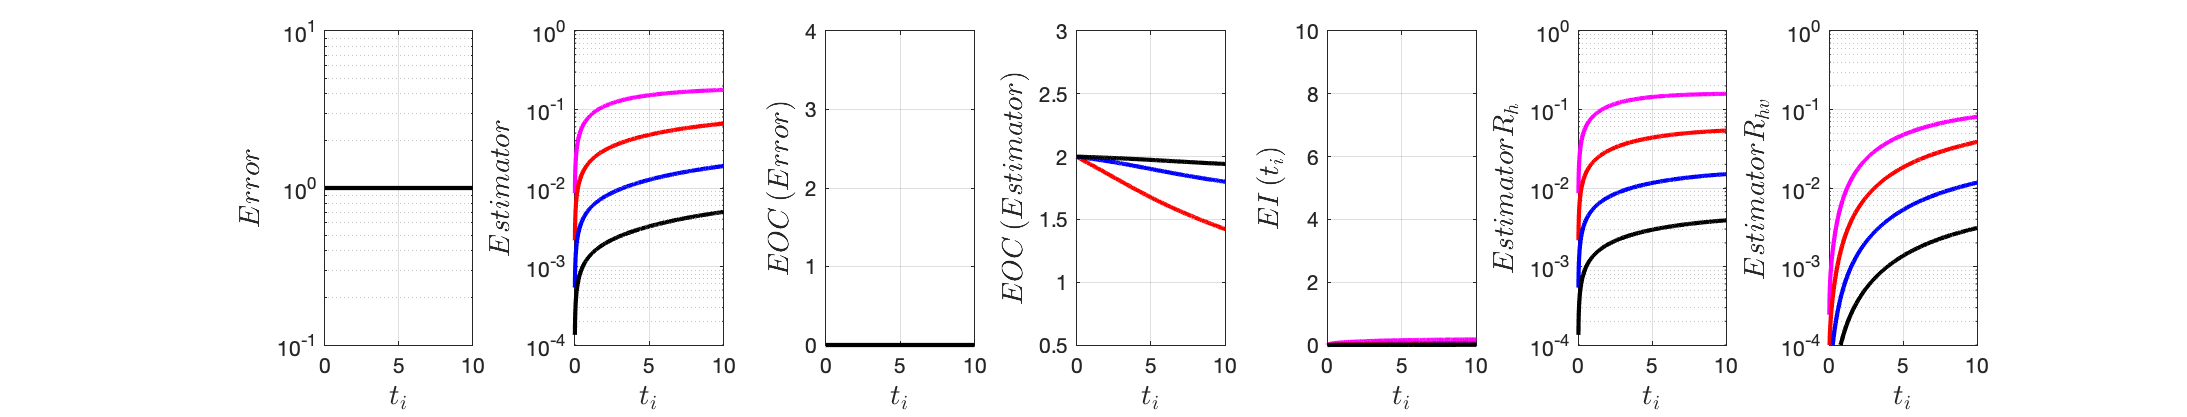
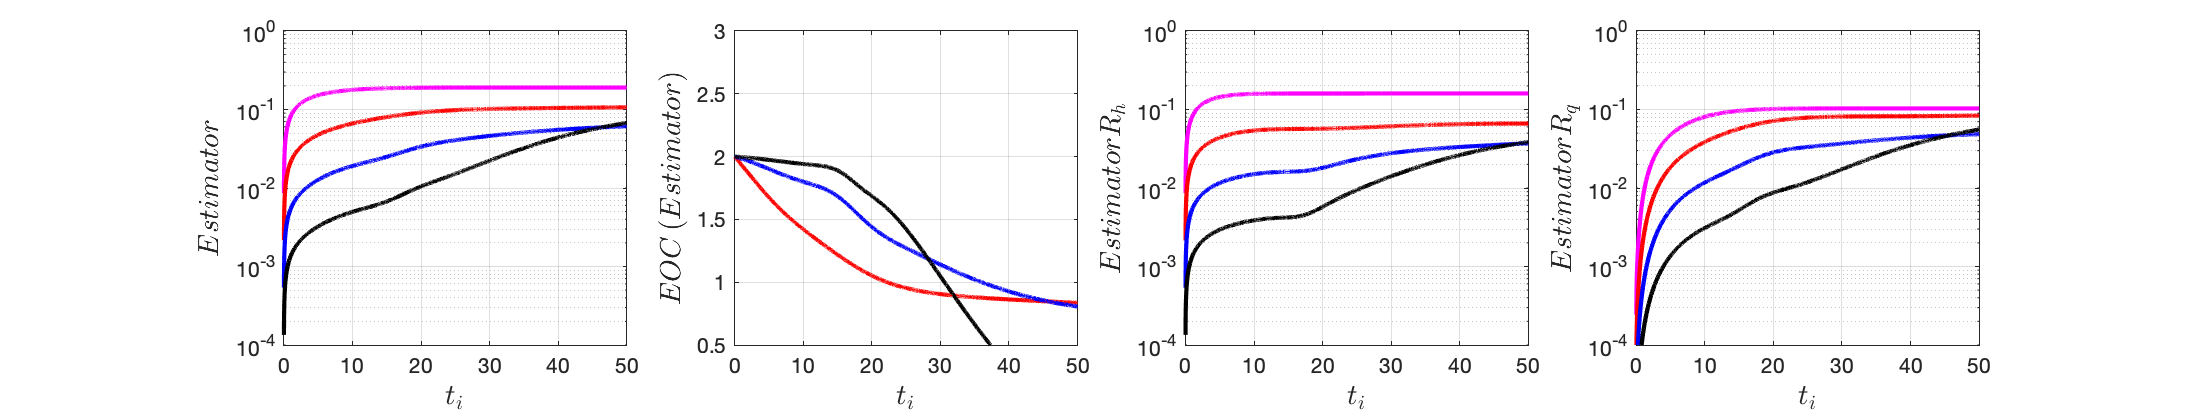
some further corrections

diff --git a/paper/shallow_water_thesis_chapter.tex b/paper/shallow_water_thesis_chapter.tex
@@ -212,7 +212,9 @@
 \thispagestyle{empty}
 \tableofcontents
 \section{Introduction}\label{sec_intro}
-In this chapter we apply model and mesh adaptivity to the shallow water equations. The aim will be to enable the adaptive introduction and removal of layers of fluid based on an a posteriori error indicator.  The rest of the chapter is as follows.
+In this chapter we apply model and mesh adaptivity to the shallow water equations. The aim will be to enable the adaptive introduction and removal of layers of fluid based on an a posteriori error indicator.  The rest of the chapter is structured as follows.
+
+We present the model problem and notation in \S \ref{sec:setup}.  In \S\ref{sec:num_disc} we present the numerical discreization of the domain and the numerical schemes we use for the spatial and temporal approximation of the problem. In \S \ref{sec_bounds} we develop the the reconstructions we use to obtain the a-posteriori error bound. In \S\ref{sec_num_exp} we present the numerical experiments we have conducted to test the reconstructions and the bound's behaviour.  In \S\ref{sec:discussion} we discuss the findings from the experiments. Finally, we present our concluding remarks in \S \ref{sec:conclusion}.
 \section{Preliminaries and Model Setup}\label{sec:setup}
 \subsection{Notation}\label{subsec_modelprob}
 In this section we present the notation we will be using as well as the model problem.  Let $\qb{0,L}$, $L\in \mathbb{R}^+$ and $t\in \qb{0,T}$ with $T\in \mathbb{R}^+$.  We define the vector of conserved quantities $\vect{u}$  where
@@ -298,12 +300,13 @@ v\qp{x,t}&=v_0\qp{x},
 where $h_0, v_0\in \leb_\infty\qp{\qb{0,L}}$ and with periodic boundary conditions.
 \end{Rem}
 
-\subsection{Numerical Discretization}
+\section{Numerical Discretization}\label{sec:num_disc}
+\subsection{Discretization of the space-time domain}
 \begin{Rem}[Discretization of temporal interval]
 	We  partition the temporal interval $\qb{0,T}$ into sub-intervals with endpoints given by $0=t^0<t^1<\cdots<t^N=T,\, N\in \mathbb{N}$.    The time-step size is defined by $\Delta t^n:=t^{n+1}-t^n,\, n=0,\cdots,N-1$.    We will use a constant time-step $\Delta t^n=\Delta t \quad \forall n\in \bracegs{0,\cdots, N-1}$.
 \end{Rem}
 \begin{Rem}[Discretization of spatial domain]
-We partition the spatial interval $\W=\qb{0,L}$ into sub-intervals with endpoints given by $0=x_0<x_1<\cdots<x_M=L,\, M\in \mathbb{N}$.  The spatial-step size  defined by $\Delta x_m:=x_{m+1}-x_m,\, m=0,\cdots,-1$.   We will use a constant spatial-step  $\Delta x_j =\Delta x \quad \forall j\in \bracegs{0,\cdots,M-1}$.
+We partition the spatial interval $\W=\qb{0,L}$ into sub-intervals with endpoints given by $0=x_0<x_1<\cdots<x_M=L,\, M\in \mathbb{N}$.  The spatial-step size  defined by $\Delta x_m:=x_{m+1}-x_m,\, m=0,\cdots,M-1$.   We will use a constant spatial-step  $\Delta x_j =\Delta x \quad \forall j\in \bracegs{0,\cdots,M-1}$.
 \end{Rem}
 \subsection{Numerical schemes}
 In this section we describe the approximations to the temporal and spatial derivatives from (\ref{eq_gen_hyp_conservation_law}).  
@@ -329,7 +332,7 @@ We approximate the temporal derivative $\partial_t\vect{u}$ using Strong-Stabili
 
 \begin{Rem}[SSP-RK methods]
 We will use the SSP methods  from \cite{shu1988total} for the temporal of component  of the discretization. As an illustrative example consider the $3-$stage SSP RK method ($\vect{U}^{\qp{i}}$ refers to the $i^{th}-$stage):
-\begin{equation}
+\begin{equation}\label{eq_SSP3_RK}
 \begin{aligned}
 \textbf{U}^{\qp{0}}&=\textbf{U}^n,\\
 \textbf{U}^{\qp{1}}&=\textbf{U}^n-\Delta t \vect{f}_h\qp{\textbf{U}^{\qp{0}}},\\
@@ -405,7 +408,10 @@ We now use the temporal reconstruction to obtain the spatio-temporal one.  In or
 \begin{Defn}[Finite difference approximation of deratives of \vect{u}]
 We will use the notation 
 $\FD\qp{\vect{U}^n_j}$
-to denote the chosen finite difference approximation to $\partial_x\vect{u}\qp{x_j,t^n}$.
+to denote the chosen finite difference approximation to $\partial_x\vect{u}\qp{x_j,t^n}$. Unless otherwise stated, we use a central difference quotient for defining our spatio-temporal reconstruction, i.e.
+\begin{equation}
+\FD\qp{\vect{U}^n_j}:=\frac{\vect{U}^{n}_{j+1}-\vect{U}^{n}_{j-1}}{2\Delta x}.
+\end{equation}
 \end{Defn}
 \begin{Defn}[Spatio-temporal reconstruction]\label{defn_spatio-temporal reconstruction}
 	Let $ \widehat{\textbf{U}}^t=\qp{\rec{h}^t,\rec{q}^t}$ be a temporal reconstruction of the numerical solution $\vect{U}$ of (\ref{eq_gen_hyp_conservation_law}).  The spatio-temporal reconstruction $\widehat{\textbf{U}}^{ts}=\qp{\rec{h}^{ts},\rec{q}^{ts}}\in\mathbb{V}^t_r\qp{0,T; \mathbb{V}^s_q}$ is given by
@@ -498,10 +504,19 @@ The objectives in this section are to study the performance of the bound given i
 &\times\exp\qp{\int^t_0\frac{\Cueta\Cof\Norm{\partial_x\rec{\vect{u}}\qp{\cdot,s}}_{\leb_\infty\qp{I}}+\Coeta^2}{\Cueta}\mathrm{d}s}
 \end{aligned}
 \end{equation}
+\begin{Rem}[Performance of the residual $\Norm{\vect{R}}_{\leb_2\qp{I\times\qp{0,t}}}$]
+In the first instance, we will examine the time evolution of the term $\Norm{\vect{R}}_{\leb_2\qp{I\times\qp{0,t}}}$ instead of the entire bound.
+\end{Rem}
+\begin{Rem}[Temporal approximations]
+In this section, we will carry out tests using two different spatial approximation.   The first will be the forward Euler approximation and the second one will be the $SSP-RK3$ approximation specified in (\ref{eq_SSP3_RK}).
+\end{Rem}
+\begin{Rem}[Degree of the reconstruction]\label{rem_degree_of_reconstruction}
+The conditions presented in Defns. \ref{defn_temp_rec_shw} and \ref{defn_spatio-temporal reconstruction} result in a polynomial reconstruction which is of third order in both time and space.  It is possible to obtain a first order reconstruciton (in both time and space) by using only a small subset of the conditions used in the aforementioned definitions: namely, the nodal equivalence conditions. 
+\end{Rem}
 The assessment of the performance of the bound will be on the basis of the Effectivity Index (EI) of the error indicators and of the Estimated Order of Convergence (EOC).
 \begin{Defn}[Effectivity Index (EI)] The effectivity index of an error indicator $\eta$ compared to a given error at time $t$ is defined as
 \begin{equation}\label{eq_EI}
-EI\qp{error\qp{t}, \eta\qp{t}} := \frac{\eta_1\qp{t}}{error\qp{t}}
+EI\qp{error\qp{t}, \eta\qp{t}} := \frac{\eta\qp{t}}{error\qp{t}}
 \end{equation}
 \end{Defn}
 
@@ -520,13 +535,13 @@ EOC\qp{a,h;i} = \frac{log\qp{a\qp{i+1}/a\qp{i}}}{log\qp{h\qp{i+1}/h\qp{i}}}.
 \end{equation}
 with periodic boundary conditions. 
 \subsection{Test results}\label{sec:num_exp}
-In the tests that follows, for the time being, we are just looking at $\Norm{\vect{R}}_{\leb_2}$ \textbf{Put the coupling and the method in the caption and change Rhv to Rq}
+In the tests that follows, for the time being, we are just looking at $\Norm{\vect{R}}_{\leb_2\qp{I\times\qp{0,t}}}$.
 \subsection*{$\Delta t \sim \Delta x^1$}
 \begin{figure}[H]
 	\hspace{-3cm}
 	%\centering
 	\includegraphics[scale=0.55]{../figures/fig_SHW_RK1_LXF_rec1_pow_oneplots_1x5_shw_periodic}	
-	\caption{Reconstruction from Defn. \ref{defn_spatio-temporal reconstruction}. (from left to right) Error $e$ given by (\ref{eq_error_eR}), Estimator $\eta$ given by (\ref{eq_estimator}), EOC error, EOC Estimator, Effectivity Index.}
+	\caption{Forward-Euler with first order reconstruction.  Temporal-spatial step coupling of $\Delta t\sim \Delta x^1$. (from left to right) $\Normgs{R}_{\leb_2\qp{0,t; \qb{0,L}}}$, EOC Estimator, $\Normgs{\mathcal{R}_h}_{\leb_2\qp{0,t; \qb{0,L}}}$, $\Normgs{\mathcal{R}_q}_{\leb_2\qp{0,t; \qb{0,L}}}$.}
 	\label{fig_all_RK1_LXF_rec1_pow_one}
 \end{figure}
 
@@ -534,7 +549,7 @@ In the tests that follows, for the time being, we are just looking at $\Norm{\ve
 	\hspace{-3cm}
 	%\centering
 	\includegraphics[scale=0.55]{../figures/fig_SHW_RK3_LXF_rec3_pow_oneplots_1x5_shw_periodic}	
-	\caption{Reconstruction from Defn. \ref{defn_spatio-temporal reconstruction}. (from left to right) Error $e$ given by (\ref{eq_error_eR}), Estimator $\eta$ given by (\ref{eq_estimator}), EOC error, EOC Estimator, Effectivity Index.}
+	\caption{RK3 with third order reconstruction.  Temporal-spatial step coupling of $\Delta t\sim \Delta x^1$. (from left to right) $\Normgs{R}_{\leb_2\qp{0,t; \qb{0,L}}}$, EOC Estimator, $\Normgs{\mathcal{R}_h}_{\leb_2\qp{0,t; \qb{0,L}}}$, $\Normgs{\mathcal{R}_q}_{\leb_2\qp{0,t; \qb{0,L}}}$.}
 	\label{fig_all_RK3_LXF_rec3_pow_one}
 \end{figure}
 
@@ -545,7 +560,7 @@ In the tests that follows, for the time being, we are just looking at $\Norm{\ve
 	\hspace{-3cm}
 	%\centering
 	\includegraphics[scale=0.55]{../figures/fig_SHW_RK1_LXF_rec1_fixedplots_1x5_shw_periodic}	
-	\caption{Reconstruction from Defn. \ref{defn_spatio-temporal reconstruction}. (from left to right) Error $e$ given by (\ref{eq_error_eR}), Estimator $\eta$ given by (\ref{eq_estimator}), EOC error, EOC Estimator, Effectivity Index.}
+	\caption{Forward-Euler with first order reconstruction.  Temporal-spatial step coupling of $\Delta t\sim \Delta x_{finest}$. (from left to right) $\Normgs{R}_{\leb_2\qp{0,t; \qb{0,L}}}$, EOC Estimator, $\Normgs{\mathcal{R}_h}_{\leb_2\qp{0,t; \qb{0,L}}}$, $\Normgs{\mathcal{R}_q}_{\leb_2\qp{0,t; \qb{0,L}}}$.}
 	\label{fig_all_RK1_LXF_rec1_fixed}
 \end{figure}
 
@@ -553,7 +568,7 @@ In the tests that follows, for the time being, we are just looking at $\Norm{\ve
 	\hspace{-3cm}
 	%\centering
 	\includegraphics[scale=0.55]{../figures/fig_SHW_RK3_LXF_rec3_fixedplots_1x5_shw_periodic}	
-	\caption{Reconstruction from Defn. \ref{defn_spatio-temporal reconstruction}. (from left to right) Error $e$ given by (\ref{eq_error_eR}), Estimator $\eta$ given by (\ref{eq_estimator}), EOC error, EOC Estimator, Effectivity Index.}
+	\caption{RK3 with third order reconstruction.  Temporal-spatial step coupling of $\Delta t\sim \Delta x_{finest}$. (from left to right) $\Normgs{R}_{\leb_2\qp{0,t; \qb{0,L}}}$, EOC Estimator, $\Normgs{\mathcal{R}_h}_{\leb_2\qp{0,t; \qb{0,L}}}$, $\Normgs{\mathcal{R}_q}_{\leb_2\qp{0,t; \qb{0,L}}}$.}
 	\label{fig_all_RK3_LXF_rec3_fixed}
 \end{figure}
 
@@ -562,7 +577,7 @@ In the tests that follows, for the time being, we are just looking at $\Norm{\ve
 	\hspace{-3cm}
 	%\centering
 	\includegraphics[scale=0.55]{../figures/fig_SHW_RK1_LXF_rec1_pow_twoplots_1x5_shw_periodic}	
-	\caption{Reconstruction from Defn. \ref{defn_spatio-temporal reconstruction}. (from left to right) Error $e$ given by (\ref{eq_error_eR}), Estimator $\eta$ given by (\ref{eq_estimator}), EOC error, EOC Estimator, Effectivity Index.}
+	\caption{Forward-Euler with first order reconstruction.  Temporal-spatial step coupling of $\Delta t\sim \Delta x_{finest}$. (from left to right) $\Normgs{R}_{\leb_2\qp{0,t; \qb{0,L}}}$, EOC Estimator, $\Normgs{\mathcal{R}_h}_{\leb_2\qp{0,t; \qb{0,L}}}$, $\Normgs{\mathcal{R}_q}_{\leb_2\qp{0,t; \qb{0,L}}}$.}
 	\label{fig_all_RK1_LXF_rec1_pow_two}
 \end{figure}
 
@@ -570,7 +585,7 @@ In the tests that follows, for the time being, we are just looking at $\Norm{\ve
 	\hspace{-3cm}
 	%\centering
 	\includegraphics[scale=0.55]{../figures/fig_SHW_RK3_LXF_rec3_pow_twoplots_1x5_shw_periodic}	
-	\caption{Reconstruction from Defn. \ref{defn_spatio-temporal reconstruction}. (from left to right) Error $e$ given by (\ref{eq_error_eR}), Estimator $\eta$ given by (\ref{eq_estimator}), EOC error, EOC Estimator, Effectivity Index.}
+	\caption{RK3 with third order reconstruction.  Temporal-spatial step coupling of $\Delta t\sim \Delta x_{finest}$. (from left to right) $\Normgs{R}_{\leb_2\qp{0,t; \qb{0,L}}}$, EOC Estimator, $\Normgs{\mathcal{R}_h}_{\leb_2\qp{0,t; \qb{0,L}}}$, $\Normgs{\mathcal{R}_q}_{\leb_2\qp{0,t; \qb{0,L}}}$.}
 	\label{fig_all_RK3_LXF_rec3_pow_two}
 \end{figure}
 
@@ -579,7 +594,7 @@ In the tests that follows, for the time being, we are just looking at $\Norm{\ve
 
 \section{Discussion}\label{sec:discussion}
 
-\section{Conclusion}
+\section{Conclusion}\label{sec:conclusion}
 
 
 \bibliography{apostfd_bibdesk}
